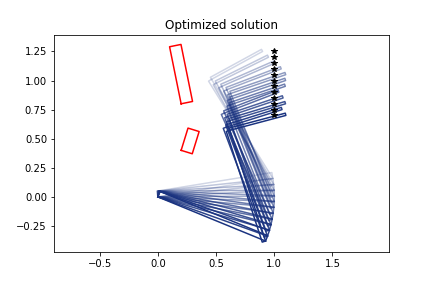
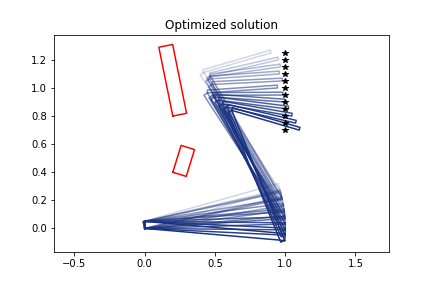
Clean code and interface ga

diff --git a/ppr/graph.py b/ppr/graph.py
@@ -9,11 +9,55 @@ Created on Thu Nov 16 10:23:28 2017
 import networkx as nx
 import numpy as np
 
+#=============================================================================
+# Main functions
+#=============================================================================
 
-""" graph functions """ 
+def get_shortest_path(Q, method='graph-dijkstra'):
+    if method == 'graph-dijkstra':
+        return _get_shortest_path_graph_dijkstra(Q)
+    else:
+        raise ValueError("Method not implemented: " + method)
+
+
+def _get_shortest_path_graph_dijkstra(Q):
+    cost = _create_cost_matrices(Q)
+    graph, sn, tg = _create_graph(Q, cost)
+    del cost
+    f_opt, path = _shortest_path(graph, sn, tg)
+    if path == None:
+        print("[ppr.graph.py] no path found in TOTAL!")
+        return False, None
+    else:
+        path = [int(s.split("|")[1]) for s in path]
+        path = [Q[i][path[i]] for i in range(len(Q))]
+    return f_opt, path
+
+
+#=============================================================================
+# Graph functions
+#=============================================================================
+    
+def _shortest_path(G, source_nodes, target_nodes):
+    """ Calculate the shortest path trough a networkx graph using dijkstra."""
+    f_opt = np.inf
+    path = None
+    for n in source_nodes:
+        f_vec = nx.single_source_dijkstra_path_length(G, source=n)
+        try:
+            f_vec = [f_vec[key] for key in target_nodes]
+            f_min = min(f_vec)
+            if f_min < f_opt:
+                f_opt = f_min
+                n_opt = target_nodes[f_vec.index(f_opt)]
+                path = nx.dijkstra_path(G, source = n, target=n_opt)
+        except KeyError:
+            print("[ppr.graph.py] No path found for this source node " + n)
+    return f_opt, path
 
 # TODO double default of the and th_value
-def create_graph(Q, CM, th=False, th_value=0.1):
+def _create_graph(Q, CM, th=False, th_value=0.1):
+    """ Convert path (Q) and cost data (CM) to an networkx graph object. """
     N = len(Q)
     Q_size = [len(q) for q in Q]
     G = nx.DiGraph()
@@ -43,64 +87,8 @@ def create_graph(Q, CM, th=False, th_value=0.1):
                         G.add_edge(prev_node, node, weight = cost_k)
     return G, source_nodes, target_nodes
 
-def shortest_path(G, source_nodes, target_nodes):
-    f_opt = np.inf
-    path = None
-    for n in source_nodes:
-        f_vec = nx.single_source_dijkstra_path_length(G, source=n)
-        try:
-            f_vec = [f_vec[key] for key in target_nodes]
-            f_min = min(f_vec)
-            if f_min < f_opt:
-                f_opt = f_min
-                n_opt = target_nodes[f_vec.index(f_opt)]
-                path = nx.dijkstra_path(G, source = n, target=n_opt)
-        except KeyError:
-            print("[ppr.graph.py] No path found for this source node " + n)
-    return f_opt, path
-
-def shortest_path2(G, source_nodes, target_nodes):
-    l = np.inf
-    for i, si in enumerate(source_nodes):
-        print("source node " + str(i))
-        for j, tj in enumerate(target_nodes):
-            li = nx.dijkstra_path_length(G, si, tj)
-            if li < l:
-                l = li
-                im = i
-                jm = j
-    return nx.dijkstra_path(G, source_nodes[im], target_nodes[jm])
-
-def get_shortest_path(Q):
-    cost = create_cost_matrices(Q)
-    graph, sn, tg = create_graph(Q, cost)
-    del cost
-    f_opt, path = shortest_path(graph, sn, tg)
-    if path == None:
-        print("[ppr.graph.py] no path found in TOTAL!")
-        return False, None
-    else:
-        path = [int(s.split("|")[1]) for s in path]
-        path = [Q[i][path[i]] for i in range(len(Q))]
-    return f_opt, path
-
-""" util functions """
-
-def create_cost_matrices(Q):
-    CM = []
-    N = len(Q)
-    Q_size = [len(q) for q in Q]
-    for i in range(N-1):
-        n1 = Q_size[i]
-        n2 = Q_size[i+1]
-        Mi = np.zeros((n1, n2))
-        for j in range(n1):
-            for k in range(n2):
-                Mi[j, k] = np.sum(np.abs(Q[i][j] - Q[i+1][k]))
-        CM.append(Mi)
-    return CM
-
-def create_single_joint_graph(Q, dist_th=0.5):
+def _create_single_joint_graph(Q, dist_th=0.5):
+    """ Create a networkx graph for the path data of a single joint (Q) """
     N = len(Q)
     Q_size = [len(q) for q in Q]
     G = nx.DiGraph()
@@ -130,6 +118,28 @@ def create_single_joint_graph(Q, dist_th=0.5):
                         G.add_edge(prev_node, node, weight = dist)
     return G, source_nodes, target_nodes
 
+#=============================================================================
+# Utility functions
+#=============================================================================
+
+def _create_cost_matrices(Q):
+    """ Calculate cost between every consecutive path points """
+    CM = []
+    N = len(Q)
+    Q_size = [len(q) for q in Q]
+    for i in range(N-1):
+        n1 = Q_size[i]
+        n2 = Q_size[i+1]
+        Mi = np.zeros((n1, n2))
+        for j in range(n1):
+            for k in range(n2):
+                Mi[j, k] = np.sum(np.abs(Q[i][j] - Q[i+1][k]))
+        CM.append(Mi)
+    return CM
+
+#=============================================================================
+# Testing
+#=============================================================================
 if __name__ == "__main__":
     print("-----test graph.py-----")
     print("-----------------------")
@@ -176,7 +186,7 @@ if __name__ == "__main__":
         print("No path found!")
     
     plt.figure()
-    g1, s1, t1 = create_single_joint_graph(Q1)
+    g1, s1, t1 = _create_single_joint_graph(Q1)
     nx.draw_spectral(g1, with_labels=True)
 
 

diff --git a/ppr/ga.py b/ppr/ga.py
@@ -22,7 +22,42 @@ return list with 2D arrays if higher dimension
 import numpy as np
 from numpy.random import rand, randint, choice
 
-""" GA parameters defaults"""
+#=============================================================================
+# Main functions
+#=============================================================================
+
+
+def get_shortest_path(Q, method='ga'):
+    if method == 'ga':
+        return _get_shortest_path_ga(Q)
+    else:
+        raise ValueError("Method not implemented: " + method)
+
+def _get_shortest_path_ga(Q,
+                          cross_rate=0.9, mut_rate=0.2,
+                          pop_init=30, iters=200):
+    # set ga parameters based on test data
+    gp['Q'] = Q
+    gp['N'] = len(Q)
+    gp['Q_size'] = [len(q) for q in Q]
+    
+    # Check whether at least one path exists
+    if 0 in gp['Q_size']:
+        return False, None
+    
+    # set crossover and mutation rate
+    gp['cross_rate'] = cross_rate
+    gp['mut_rate'] = mut_rate
+    
+    # create initial population and run ga algorithm
+    pop = create_population(pop_init)
+    f_opt, path_index, fvec = run_ga(pop, iters=iters)
+    path = [ Q[i][path_index[i], :] for i in range(gp['N']) ]
+    return f_opt, path
+
+#=============================================================================
+# GA parameters defaults
+#=============================================================================
 gp = {}
 gp['N'] = 1 # path size
 gp['Q_size'] = [1] # chromosome length for every path point
@@ -30,7 +65,28 @@ gp['Q'] = [rand(gp['Q_size'][i], 3) for i in range(gp['N'])] # random default da
 gp['cross_rate'] = 0.8
 gp['mut_rate'] = 0.1
 
-""" GA functions """
+
+
+#=============================================================================
+# GA functions
+#=============================================================================
+def run_ga(init_pop, iters=100):
+    cnt = iters
+    pop = init_pop
+    f_opt = np.inf
+    f_all = []
+    while(cnt > 0):
+        pop = sort_population(pop)
+        
+        f_cur = fitness(pop[0])
+        f_all.append(f_cur)
+        if f_cur < f_opt:
+            f_opt = f_cur
+        
+        pop = new_generation(pop)
+        cnt -= 1
+    f_all = np.array(f_all)
+    return f_opt, pop[0], f_all
 
 def create_chromosome():
     return np.array([randint(0, gp['Q_size'][i]) for i in range(gp['N'])])
@@ -94,28 +150,10 @@ def new_generation(pop):
         new_pop.append(c2)
         current_size += 2
     return np.array(new_pop)
-
-def run_ga(init_pop, iters=100):
-    cnt = iters
-    pop = init_pop
-    f_opt = np.inf
-    f_all = []
-    while(cnt > 0):
-        pop = sort_population(pop)
         
-        f_cur = fitness(pop[0])
-        f_all.append(f_cur)
-        if f_cur < f_opt:
-            f_opt = f_cur
-        
-        pop = new_generation(pop)
-        cnt -= 1
-    f_all = np.array(f_all)
-    return f_opt, f_all
-        
-
-""" UTIL functions """
-
+#=============================================================================
+# UTIL functions
+#=============================================================================
 def get_path(c):
     return np.array([gp['Q'][i][c[i]] for i in range(gp['N'])])
 
@@ -130,7 +168,9 @@ def brute_force(iters = 100):
     
     return f_opt, f_all
 
-""" TEST CODE """
+#=============================================================================
+# Testing
+#=============================================================================
 if __name__ == "__main__":
     gp['N'] = 4
     gp['Q_size'] = [8]*gp['N']
@@ -196,12 +236,22 @@ if __name__ == "__main__":
     print("TEST GA vs brute force")
     print("----------------------")
     p4 = create_population(10)
-    fsol, fvec = run_ga(p4, iters=100)
-    ivec = np.linspace(0, 100*10, 100)
+    
+    fsol, fpop, fvec = run_ga(p4, iters=100)
     fsol2, fvec2 = brute_force(iters = 1000)
+    
+    print("path " + str(fpop))
+    
+    ivec = np.linspace(0, 100*10, 100)
     ivec2 = np.linspace(0, 100*10, 1000)
     import matplotlib.pyplot as plt
     plt.figure()
     plt.plot(ivec, fvec, '.', ivec2, np.minimum.accumulate(fvec2), '.')
     plt.show()
+    
+    print("----------------------")
+    print("get shortest path")
+    print("----------------------")
+    fopt, p = get_shortest_path(gp['Q'])
+    print("path " + str(p))
 

diff --git a/example_3R_robot.py b/example_3R_robot.py
@@ -78,6 +78,21 @@ plot_path(ax4, path, show_tolerance=False)
 plot_scene(ax4, sc1, 'r')
 #plt.savefig("image/example_first_solution.png")
 
+""" code block 4b """
+from ppr.ga import get_shortest_path
+
+# find the best sequence of joint solutions in path_js
+# currently total joint movement is minimized by default
+path_length, shortest_path_js = get_shortest_path(path_js)
+
+fig4b, ax4b = plt.subplots()
+plt.title("The GA solution")
+ax4b.axis('equal')
+robot1.plot_path(ax4b, shortest_path_js)
+plot_path(ax4b, path, show_tolerance=False)
+plot_scene(ax4b, sc1, 'r')
+#plt.savefig("image/example_first_solution.png")
+
 """fictional code block 5 """
 from ppr.optimize import get_optimal_trajectory, q_derivatives
 

diff --git a/ppr/path.py b/ppr/path.py
@@ -7,7 +7,7 @@ Created on Thu Nov 16 12:29:32 2017
 """
 
 import numpy as np
-from matplotlib.patches import Arc, Wedge
+from matplotlib.patches import Wedge
 
 class TolerancedNumber:
     def __init__(self, nominal, lower_bound, upper_bound, samples=10):
